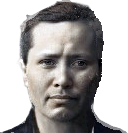
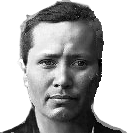
zm

diff --git a/src/components/Signin/helena.js b/src/components/Signin/helena.js
@@ -2,7 +2,7 @@ import React, { useContext } from "react";
 import { Container, Wrapper, Icon } from "./przodekElements";
 import { BsArrowLeftSquareFill } from "react-icons/bs";
 import { DarkOverlayContext } from "../../context/DarkOverlayContext";
-import img from "../../images/7.png";
+import img from "../../images/12.jpg";
 import useScrollManager from "../../ScrollManager";
 
 const Helena = () => {
